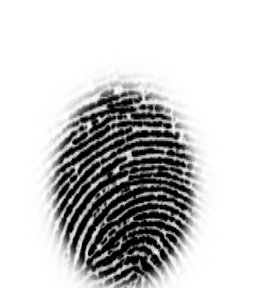
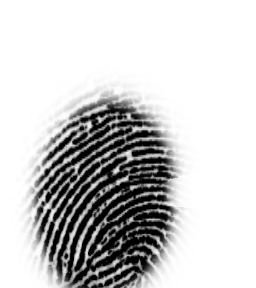
Rotation of the ellipsoid created by c_anisotropic

Changed region(s): [[0.0938, 0.2812, 0.8125, 1.0]]

diff --git a/src/pressure.cpp b/src/pressure.cpp
@@ -52,6 +52,7 @@ std::vector<float> coeffs(cv::Point center, std::vector<cv::Point> coords,
     int size = coords.size();
     float dist;
 
+    //Utiliser la fonction c_anisotropic aussi vu qu'elle permet d'avoir un résultat isotrope
     if (iso) {
         for (int i = 0; i < size; i++) {
             dist = cv::norm(center - coords[i]);
@@ -67,12 +68,13 @@ std::vector<float> coeffs(cv::Point center, std::vector<cv::Point> coords,
 
 
 std::vector<float> coeffs_polar(cv::Point center, std::vector<cv::Point> coords,
-                          float param_x, float param_y, float param, bool iso)
+                          float param_x, float param_y, float param, float param_rot, bool iso)
 {
     std::vector<float> res;
     int size = coords.size();
     float dist;
 
+    //Utiliser la fonction c_anisotropic aussi vu qu'elle permet d'avoir un résultat isotrope
     if (iso) {
         for (int i = 0; i < size; i++) {
             dist = cv::norm(center - coords[i]);
@@ -81,8 +83,14 @@ std::vector<float> coeffs_polar(cv::Point center, std::vector<cv::Point> coords,
     } else {
         float r, theta;
         for (int i = 0; i < size; i++) {
-            cartesian_to_polar(center, coords[i], r, theta);
-            res.push_back(c_anisotropic_polar(r, theta, center, param_x, param_y, param));
+            cv::Point rotated(int(cos(param_rot) * coords[i].x - sin(param_rot) * coords[i].y),
+                              int(sin(param_rot) * coords[i].x + cos(param_rot) * coords[i].y));
+            cartesian_to_polar(center, rotated, r, theta);
+
+            if (-PI/8 <= theta && theta <= 0)
+                res.push_back(c_anisotropic_polar(r, theta, center, 1.5*param_x, param_y, 5*param));
+            else
+                res.push_back(c_anisotropic_polar(r, theta, center, param_x, param_y, param));
         }
     }
 

diff --git a/include/pressure.h b/include/pressure.h
@@ -79,10 +79,11 @@ std::vector<float> coeffs(cv::Point center, std::vector<cv::Point> coords, float
  * \param coords points to modify the value
  * \param param_x, param_y weigths of x and y
  * \param param parameter of the function
+ * \param param_rot rotation of the ellipsoid
  * \param iso if true use an isotropic function if false an anisotropic function
  * \return Returns the list of modified coefficients
  */
-std::vector<float> coeffs_polar(cv::Point center, std::vector<cv::Point> coords, float param_x = 0.00035, float param_y = 0.000175, float param = 50, bool iso = false);
+std::vector<float> coeffs_polar(cv::Point center, std::vector<cv::Point> coords, float param_x = 0.00035, float param_y = 0.000175, float param = 50, float param_rot = -PI/32, bool iso = false);
 
 
 /**

diff --git a/src/image.cpp b/src/image.cpp
@@ -333,10 +333,10 @@ Image Image::pressure(cv::Point center, std::vector<cv::Point> coords,
 
 
 Image Image::PressurePolar(cv::Point center, std::vector<cv::Point> coords,
-                           bool iso, float param, float param_x, float param_y)
+                           bool iso, float param, float param_x, float param_y, float param_rot)
 {
     std::vector<float> new_values = coeffs_polar(center, coords, param_x,
-                                           param_y, param, iso);
+                                           param_y, param, param_rot, iso);
   
     Image diff = -(*this);
     

diff --git a/include/image.h b/include/image.h
@@ -215,7 +215,7 @@ class Image{
         * \param param, param_x, param_y parameters of the functions
         * \return Image with modified pressure
         */
-  	    Image PressurePolar(cv::Point center, std::vector<cv::Point> coords,  bool iso = false, float param = 50, float param_x = 0.00035, float param_y = 0.000175);
+  	    Image PressurePolar(cv::Point center, std::vector<cv::Point> coords,  bool iso = false, float param = 50, float param_x = 0.00035, float param_y = 0.000175, float param_rot = -PI/32);
 
 
 
